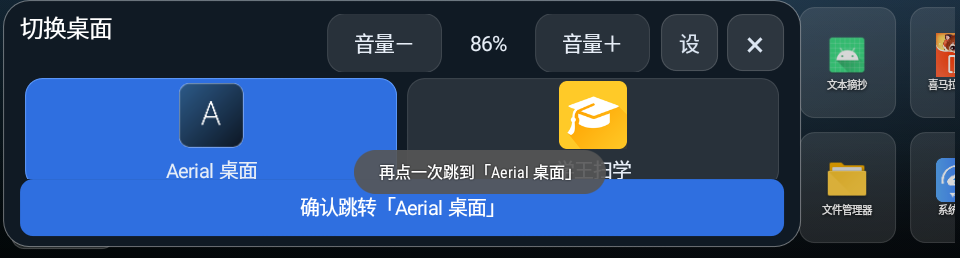
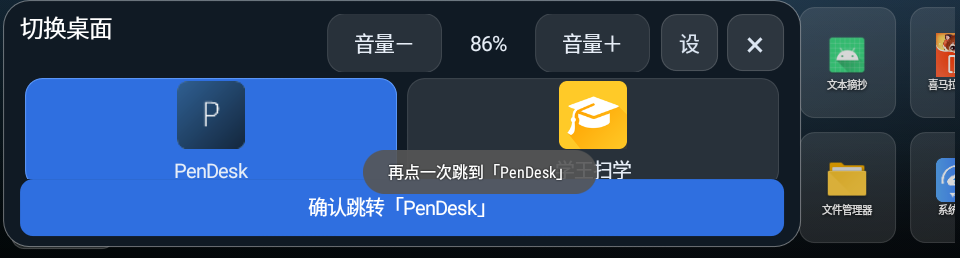
切换器 1.7.3: 动态读取桌面名称，PenDesk 面板截图与新官网

diff --git a/docs/index.html b/docs/index.html
@@ -478,7 +478,7 @@ footer{border-top:1px solid rgba(255,255,255,.075);padding:62px 0 38px;backgroun
     <div class="hero-bg"></div>
     <div class="hero-inner">
       <div class="hero-copy">
-        <div class="eyebrow"><span class="dot"></span><b>1.7.2</b><span>为 258×960 点读笔</span></div>
+        <div class="eyebrow"><span class="dot"></span><b>1.7.3</b><span>为 258×960 点读笔</span></div>
         <h1>一个球，<br><span>在桌面之间。</span></h1>
         <p class="hero-sub">贴边悬浮球，点开是桌面图标。选中，再点一次，才跳转——不会因为手抖切走你的桌面。悬浮球和面板还能分开调大小。</p>
         <div class="cta">
@@ -500,10 +500,10 @@ footer{border-top:1px solid rgba(255,255,255,.075);padding:62px 0 38px;backgroun
           <span>960 × 258</span>
         </div>
         <div class="device device-a">
-          <div class="screen"><img src="assets/desktop.png" alt="Aerial Pen 桌面左上边缘的悬浮球"></div>
+          <div class="screen"><img src="assets/desktop.png" alt="PenDesk左上边缘的悬浮球"></div>
         </div>
         <div class="device device-b">
-          <div class="screen"><img src="assets/panel.png" alt="桌面切换器展开面板，显示 Aerial 桌面和学王扫学"></div>
+          <div class="screen"><img src="assets/panel.png" alt="桌面切换器展开面板，显示 PenDesk和学王扫学"></div>
         </div>
         <div class="stage-foot"><i></i><span>球贴在左边，面板向右展开；点面板外直接收起</span></div>
       </div>
@@ -540,7 +540,7 @@ footer{border-top:1px solid rgba(255,255,255,.075);padding:62px 0 38px;backgroun
       <div class="flow">
         <article class="flow-card reveal">
           <div class="flow-head"><b>01</b><span>BALL</span></div>
-          <div class="flow-shot" data-full="assets/desktop.png"><img src="assets/desktop.png" alt="悬浮球贴在 Aerial 桌面左边缘"></div>
+          <div class="flow-shot" data-full="assets/desktop.png"><img src="assets/desktop.png" alt="悬浮球贴在 PenDesk左边缘"></div>
           <h3>先点一下球</h3>
           <p>球贴在屏幕边缘，不挡应用。点一下，面板从球的位置展开。</p>
           <span class="flow-tip">可拖动，松手自动吸附左右边</span>
@@ -554,9 +554,9 @@ footer{border-top:1px solid rgba(255,255,255,.075);padding:62px 0 38px;backgroun
         </article>
         <article class="flow-card final reveal">
           <div class="flow-head"><b>03</b><span>CONFIRM</span></div>
-          <div class="flow-shot" data-full="assets/confirm.png"><img src="assets/confirm.png" alt="选中 Aerial 桌面后出现确认跳转提示"></div>
+          <div class="flow-shot" data-full="assets/confirm.png"><img src="assets/confirm.png" alt="选中 PenDesk后出现确认跳转提示"></div>
           <h3>再点一次，才跳转</h3>
-          <p>提示「再点一次跳转「Aerial 桌面」」。同一图标再点一次，才会切换。</p>
+          <p>提示「再点一次跳转「PenDesk」」。同一图标再点一次，才会切换。</p>
           <span class="flow-tip">手抖也不会切走</span>
         </article>
       </div>
@@ -711,7 +711,7 @@ footer{border-top:1px solid rgba(255,255,255,.075);padding:62px 0 38px;backgroun
 <span class="k">adb</span> devices
 
 <span class="c"># 2. 推送 APK 并安装</span>
-<span class="k">adb</span> push desktop-switcher-1.7.2.apk /data/local/tmp/switcher.apk
+<span class="k">adb</span> push desktop-switcher-1.7.3.apk /data/local/tmp/switcher.apk
 <span class="k">adb</span> shell pm install -r /data/local/tmp/switcher.apk
 
 <span class="c"># 3. 授予悬浮窗（Android 6.0 / API 23）</span>
@@ -740,7 +740,7 @@ footer{border-top:1px solid rgba(255,255,255,.075);padding:62px 0 38px;backgroun
           <h3>Pen Desktop Switcher</h3>
           <p>给低分辨率安卓点读笔做的桌面切换器。MIT 许可，代码由豆老师编写。无广告、无收费、无强制更新。</p>
           <div class="version-row">
-            <span class="version">v1.7.2</span>
+            <span class="version">v1.7.3</span>
             <span class="chip">Android 6.0+</span>
             <span class="chip">258×960</span>
             <span class="chip">无 root</span>
@@ -766,7 +766,7 @@ footer{border-top:1px solid rgba(255,255,255,.075);padding:62px 0 38px;backgroun
             <svg viewBox="0 0 24 24" fill="none" stroke="currentColor" stroke-width="1.8" stroke-linecap="round"><path d="M7 17L17 7"/><path d="M9 7h8v8"/></svg>
           </a>
           <a class="side-item" href="https://github.com/Satellite18111/aerial-pen" target="_blank" rel="noopener">
-            <div><span>Aerial Pen 桌面</span><small>配套的 tvOS 风格第三方桌面</small></div>
+            <div><span>PenDesk</span><small>配套的 tvOS 风格第三方桌面</small></div>
             <svg viewBox="0 0 24 24" fill="none" stroke="currentColor" stroke-width="1.8" stroke-linecap="round"><path d="M7 17L17 7"/><path d="M9 7h8v8"/></svg>
           </a>
           <a class="side-item" href="https://github.com/Satellite18111/pen-desktop-switcher/blob/master/LICENSE" target="_blank" rel="noopener">
@@ -793,7 +793,7 @@ footer{border-top:1px solid rgba(255,255,255,.075);padding:62px 0 38px;backgroun
         <h4>项目</h4>
         <ul>
           <li><a href="https://github.com/Satellite18111/pen-desktop-switcher" target="_blank" rel="noopener">桌面切换器仓库</a></li>
-          <li><a href="https://github.com/Satellite18111/aerial-pen" target="_blank" rel="noopener">Aerial Pen 桌面</a></li>
+          <li><a href="https://github.com/Satellite18111/aerial-pen" target="_blank" rel="noopener">PenDesk</a></li>
           <li><a href="https://github.com/Satellite18111/pen-desktop-switcher/releases/latest" target="_blank" rel="noopener">最新 Release</a></li>
         </ul>
       </div>
@@ -892,3 +892,5 @@ footer{border-top:1px solid rgba(255,255,255,.075);padding:62px 0 38px;backgroun
 </script>
 </body>
 </html>
+
+

diff --git a/app/src/main/java/aerial/pen/switcher/Desktops.kt b/app/src/main/java/aerial/pen/switcher/Desktops.kt
@@ -36,17 +36,22 @@ object Desktops {
             out.add(DesktopTarget(pkg, name, label))
         }
 
-        // 非 HOME 桌面（例如 Aerial）也允许在切换器里出现
+        // 非 HOME 桌面（例如 PenDesk）也允许在切换器里出现
         val extras = listOf(
-            Triple("aerial.pen", "aerial.pen.MainActivity", "Aerial 桌面"),
+            "aerial.pen" to "aerial.pen.MainActivity",
         )
-        for ((pkg, activity, label) in extras) {
+        for ((pkg, activity) in extras) {
             if (pkg == context.packageName) continue
             val key = "$pkg/$activity"
             if (seen.contains(key)) continue
             try {
-                context.packageManager.getActivityInfo(ComponentName(pkg, activity), 0)
+                val info = context.packageManager.getActivityInfo(ComponentName(pkg, activity), 0)
                 if (context.packageManager.getLaunchIntentForPackage(pkg) != null) {
+                    val label = try {
+                        info.loadLabel(pm).toString()
+                    } catch (t: Throwable) {
+                        pkg
+                    }
                     out.add(DesktopTarget(pkg, activity, label))
                     seen.add(key)
                 }
@@ -68,8 +73,13 @@ object Desktops {
             if (pkg == context.packageName) continue
             if (seen.contains(component)) continue
             try {
-                context.packageManager.getActivityInfo(ComponentName(pkg, activity), 0)
-                out.add(DesktopTarget(pkg, activity, label))
+                val info = context.packageManager.getActivityInfo(ComponentName(pkg, activity), 0)
+                val resolvedLabel = try {
+                    info.loadLabel(pm).toString()
+                } catch (t: Throwable) {
+                    label
+                }
+                out.add(DesktopTarget(pkg, activity, resolvedLabel))
                 seen.add(component)
             } catch (t: Throwable) {
             }

diff --git a/README.md b/README.md
@@ -77,7 +77,7 @@ adb shell appops set aerial.pen.switcher SYSTEM_ALERT_WINDOW allow
 
 ## 配合桌面
 
-- [aerial-pen](https://github.com/Satellite18111/aerial-pen)：仿 tvOS 风格的第三方桌面。
+- [PenDesk](https://github.com/Satellite18111/aerial-pen)：仿 tvOS 风格的第三方桌面。
 - 原厂学王桌面 `com.jxw.launcher` 也可作为跳转目标。
 
 ## 免责声明
